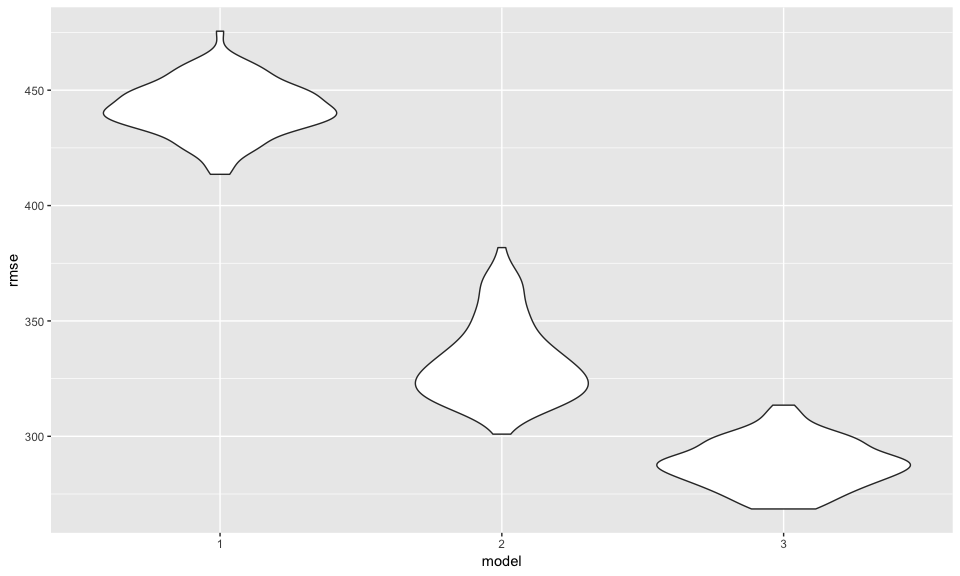
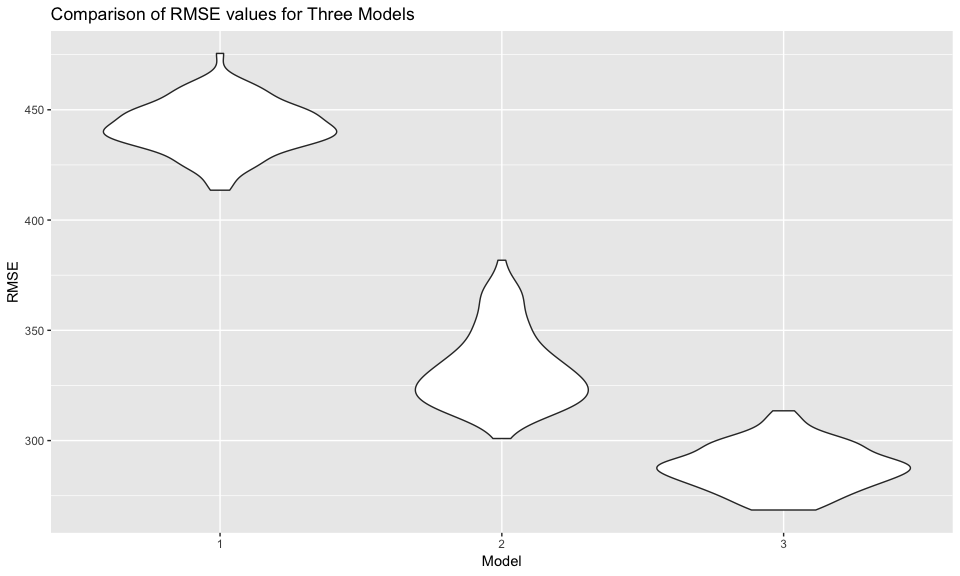
work on problem 2 - modified the graph figure appearance

diff --git a/p8105_hw6_dm3175.md b/p8105_hw6_dm3175.md
@@ -115,7 +115,7 @@ nest_fit_logistic_all = clean_homicide_data %>%
 
 #### Plot of estimated ORs and CIs for each city
 
-The adjusted odds ratio for solving homicides comparing non-white victims to white victims keeping all other variables fixed was plotted for each city along with 95% confidence intervals. The resulting plot shows that OR values are generally less than 1 (except for Tampa, FL, Birmingham, AL and Durham, NC, although these estimates have large confidence intervals due to smaller sample sizes), indicating that homicides where the victim is nonwhite are generally less likely to be resolved than those when the victim is white. Note that the plot indicates that the value of the OR varies by City.
+The adjusted odds ratio for solving homicides comparing non-white victims to white victims keeping all other variables fixed was plotted for each city along with 95% confidence intervals. The resulting plot shows that OR values are generally less than 1 (except for Tampa, FL, Birmingham, AL and Durham, NC, although these estimates have large confidence intervals due to smaller sample sizes), indicating that homicides where the victim is non-white are generally less likely to be resolved than those when the victim is white. Note that the plot indicates that the value of the OR varies by City.
 
 ``` r
 nest_fit_logistic_all %>%
@@ -166,17 +166,24 @@ tidy_birthweight_data = birthweight_data %>%
          blength = as.numeric(blength))
 ```
 
-Used `skimr::skim()` to check for any missing data points and there were none. Converted relevant variables to factor variables and to numeric when appropriate.
+Used `skimr::skim()` to check for any missing data points and there were none. Converted relevant variables to factor variables and to numeric when appropriate. Note that `babysex` variable had two possible values (male = 1, female = 2), and coded as numeric for the subsequent model to run.
 
 ### Regression Model for Birthweight
 
-To select the covariates to include in the model, a report published by UNICEF (UNICEF. 2004. "Low Birthweight: Country, Regional and Global Estimates" <https://www.unicef.org/publications/files/low_birthweight_from_EY.pdf>) was consulted to investigate factors associated with the mother which may impact birthweight. The goal of this particular model was to examine what maternal factors may predict birthweight, which could represent a possible target for public health interventions to reduce low birthweight. Various combinations of the suggested factors were tested and adjusted R^2 values were compared for different models when adding new variables. The following variables were included in the model describing maternal influences of birthweight.
+To select the covariates to include in the model, a report published by UNICEF (UNICEF. 2004. "Low Birthweight: Country, Regional and Global Estimates" <https://www.unicef.org/publications/files/low_birthweight_from_EY.pdf>) was consulted to investigate factors associated with the mother which may impact birthweight. The goal of this particular model was to examine what **maternal factors** may predict birthweight, which could represent a possible target for public health interventions to reduce low birthweight by targetting susceptible mothers prior to birth. Various combinations of the suggested factors were tested and adjusted R^2 values were compared for different models when adding subsequent new variables. The following variables were included in the model 1 (`fit_lm_birthweight_1`) describing maternal influences of birthweight.
 
 -   Mother height (`mheight`)
 -   Smoking (`smoken`)
 -   Pregnancy Duration (`gaweeks`)
 -   SES status measured through family income (`fincome`)
 -   Maternal weight gain during pregnancy (`wtgain`)
+
+Additional variables investigated but not included due to not impacting adjusted R2 when added:
+
+-   Parity (`parity`)
+-   Mother BMI (`mbmi`)
+-   Gestational Age (`gaweeks`)
+-   Maternal pre-pregnancy weight (`ppwt`)
 
 ``` r
 fit_lm_birthweight_1 = lm(bwt ~ wtgain + smoken + mheight + fincome + gaweeks, data = birthweight_data) 
@@ -283,7 +290,7 @@ fit_lm_birthweight_3 %>%
 
 #### Cross Validation and Comparison on Models
 
-The model was compared to the two alternative proposed models using `crossv_mc` and functions in `purrr`. The resulting plots of RMSEs demonstrate that Model 3 (including head circumference, length, sex, and all interactions (including the three-way interaction) between these) has the smallest RMSE, indicating that this model works the best for the data. The proposed model incorporating maternal factors (model 1, including wtgain + smoken + mheight + fincome + gaweeks) had the largest RMSE value, indicating that this model was the least effective in prediction accurary compared to the other two models. This may suggest that this model should be revisited in the future and improved to decrease the RMSE.
+The model was compared to the two alternative proposed models using `crossv_mc` and functions in `purrr`. The resulting plots of RMSEs demonstrate that Model 3 (including head circumference, length, sex, and all interactions (including the three-way interaction) between these) has the smallest RMSE, indicating that this model works the best for the data. Model 2 (including blength + gaweeks) had the second smallest RMSE. The proposed model incorporating maternal factors (model 1, including wtgain + smoken + mheight + fincome + gaweeks) had the largest RMSE value, indicating that this model was the least effective in prediction accurary compared to the other two models. This may suggest that this model should be revisited in the future and improved to decrease the RMSE. Moreover, focusing on some key maternal factors in model 1 to predict birthweight may be important but not as predictive as the other variables included in the other models.
 
 ``` r
 set.seed(1)
@@ -295,7 +302,7 @@ cv_birthweight_df =
   cv_birthweight_df %>% 
   mutate(fit_lm_birthweight_1 = map(train, ~lm(bwt ~ wtgain + smoken + mheight + fincome + gaweeks, data = birthweight_data)),
          fit_lm_birthweight_2 = map(train, ~lm(bwt ~ blength + gaweeks, data = birthweight_data)),
-         fit_lm_birthweight_3 = map(train, ~lm(bwt ~ bhead * blength * babysex, data = birthweight_data))) %>% 
+         fit_lm_birthweight_3 = map(train, ~lm(bwt ~ bhead * blength * babysex, data = birthweight_data))) %>%
   mutate(rmse_1 = map2_dbl(fit_lm_birthweight_1, test, ~rmse(model = .x, data = .y)),
          rmse_2 = map2_dbl(fit_lm_birthweight_2, test, ~rmse(model = .x, data = .y)),
          rmse_3 = map2_dbl(fit_lm_birthweight_3, test, ~rmse(model = .x, data = .y)))
@@ -305,7 +312,11 @@ cv_birthweight_df %>%
   gather(key = model, value = rmse) %>% 
   mutate(model = str_replace(model, "rmse_", ""),
          model = fct_inorder(model)) %>% 
-  ggplot(aes(x = model, y = rmse)) + geom_violin()
+  ggplot(aes(x = model, y = rmse)) + 
+  geom_violin() +
+  labs(title = "Comparison of RMSE values for Three Models",
+         x = "Model",
+         y = "RMSE")
 ```
 
 <img src="p8105_hw6_dm3175_files/figure-markdown_github/unnamed-chunk-12-1.png" width="90%" />
